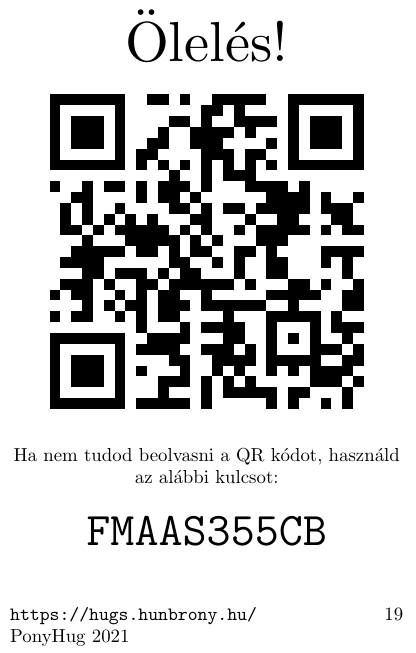
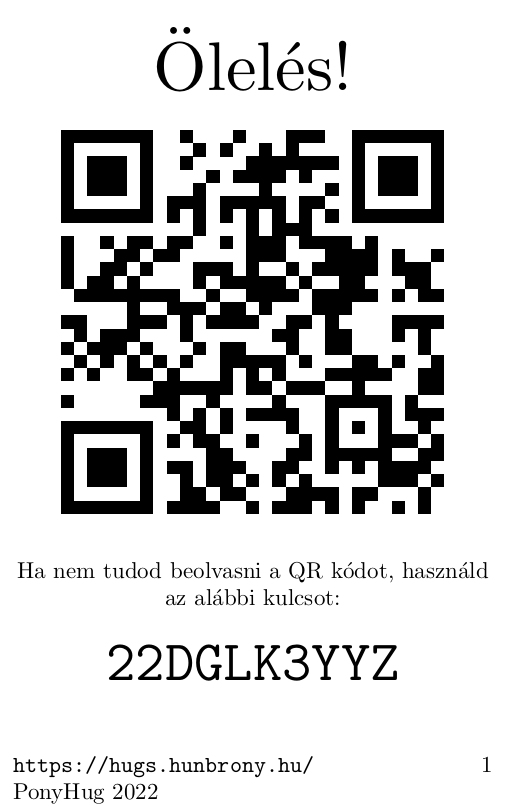
Added a legit qr code

diff --git a/src/views/AboutView.vue b/src/views/AboutView.vue
@@ -60,6 +60,17 @@
         </ul>
       </b-col>
     </b-row>
+    <b-row class="my-3">
+      <b-col>
+        <h2>Ez az aminek tűnik...</h2>
+        <p>
+          <b-img src="@/assets/legitqr.jpg" fluid-grow />
+        </p>
+        <p>
+          Igen, ez tényleg egy QR kód, scanneld be! (vagy hát, keress valakit akinek a telójáról bescannelheted)
+        </p>
+      </b-col>
+    </b-row>
   </div>
 </template>
 
